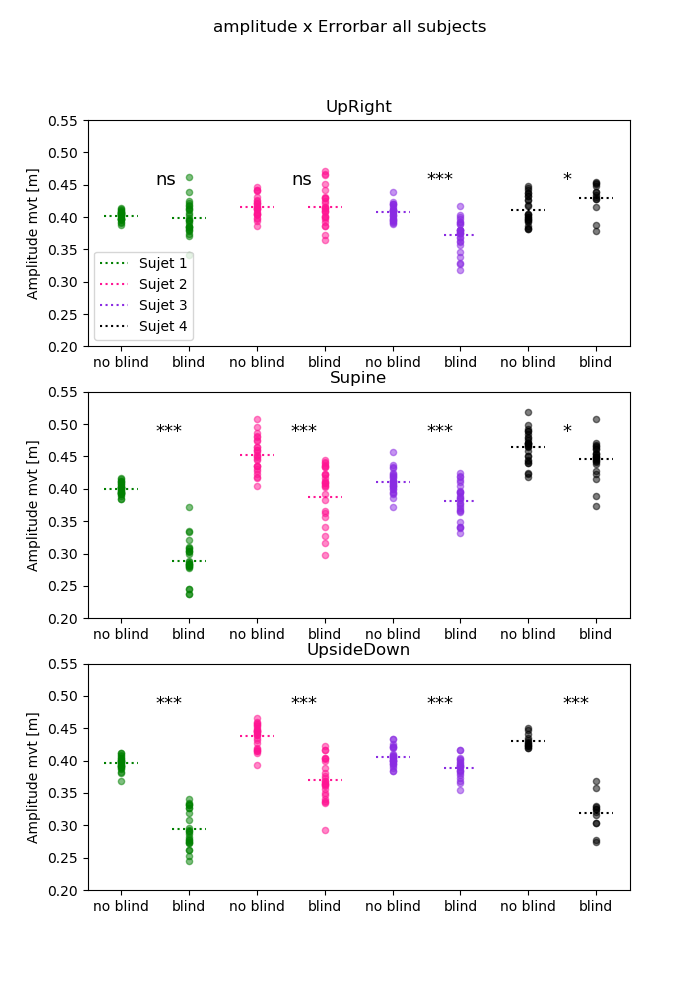
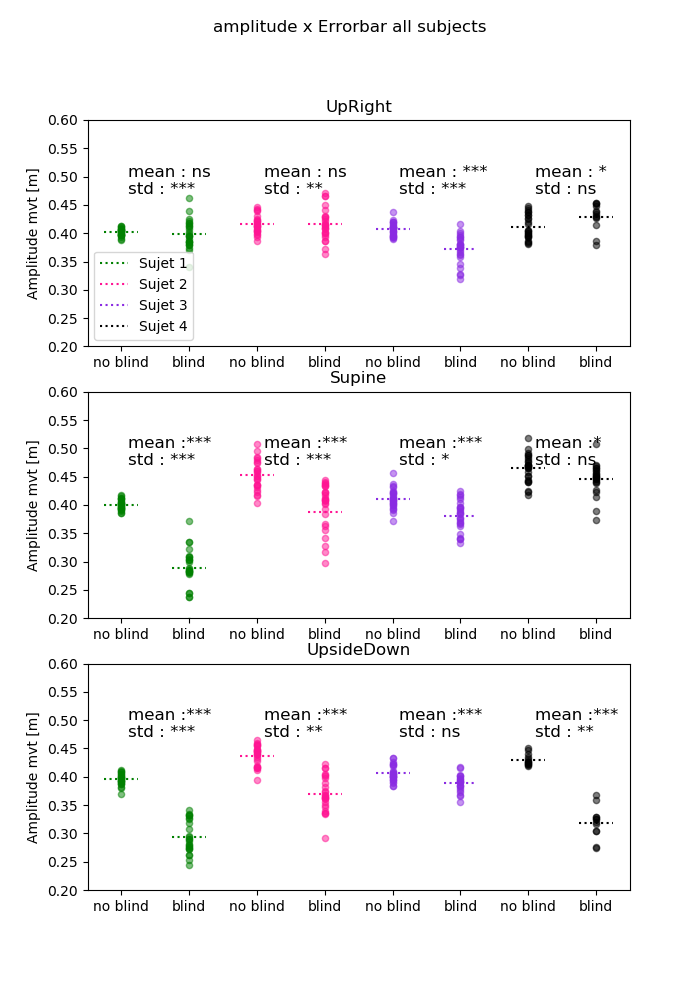
update code

diff --git a/codepython/GF/allsubjectsjustpvaluebindnobindposition.py b/codepython/GF/allsubjectsjustpvaluebindnobindposition.py
@@ -33,6 +33,11 @@ sujetcolor = {
     "GD": "green",
     "LH": "blueviolet"
 }
+positioncolor={
+"UR": "deeppink",
+    "SP": "black",
+    "UD": "green"
+}
 sujetmarker = {
     "GD": "d",
     "MH": "o",
@@ -44,6 +49,11 @@ indexsubject = {
     "MH": [7, 8],
     "LH": [5, 6],
     "PDs": [3, 4]
+}
+indexposition={
+    'UD':[5, 6],
+    'UR':[1,2],
+    'SP':[3,4]
 }
 
 
@@ -66,13 +76,12 @@ GF = glm_df.loc[:, 'GF'].to_numpy()
 meanlucile = np.nanmean(GF[baseline])
 ##
 
-fig, (ax1, ax2, ax3) = plt.subplots(nrows=3, ncols=1, figsize=(7, 10))
-tup = (ax1, ax2, ax3)
-for p, ax in zip(positions, tup):
+
+for p in positions:
     a = -3
+    openarray1 = []
+    openarray2 = []
     for name in names:
-        openarray1 = []
-        openarray2 = []
         a += 1
         for n in ntrials:
             glm_path = "../../data/%s_%s_00%d.glm" % (name, p, n)
@@ -151,42 +160,32 @@ for p, ax in zip(positions, tup):
                 if n == 5 or n == 4:
                     openarray2.append(np.nanmax(GF[id]))
 
-        X1 = sm2.DescrStatsW(openarray1)
-        X2 = sm2.DescrStatsW(openarray2)
-        Ttest = sm2.CompareMeans(X1, X2)
-        t2, p2 = sc.ttest_ind(openarray1, openarray2)
-        Txbis, pvalbis = sc.bartlett(openarray1, openarray2)
-        box = [np.nanmean(openarray1), np.nanmean(openarray2)]
-        box1 = [np.nanstd(openarray1), np.nanstd(openarray2)]
-        index = indexsubject[name]
-        indexgraph1 = np.linspace(index[0] - 0.25, index[0] + 0.25, 50)
-        plotarray1 = np.zeros(50) + box[0]
-        indexgraph2 = np.linspace(index[1] - 0.25, index[1] + 0.25, 50)
-        plotarray2 = np.zeros(50) + box[1]
-        indexscatter1 = np.zeros(len(openarray1)) + index[0]
-        indexscatter2 = np.zeros(len(openarray2)) + index[1]
-        if ax == ax3:
-            ax.plot(indexgraph1, plotarray1, linestyle='dotted', color=sujetcolor[name],
-                    label=sujet[name])
-            ax.scatter(indexscatter1, openarray1, color=sujetcolor[name], alpha=0.5, s=20)
-            ax.plot(indexgraph2, plotarray2, linestyle='dotted', color=sujetcolor[name])
-            ax.scatter(indexscatter2, openarray2, color=sujetcolor[name], alpha=0.5, s=20)
-            ax.text(index[0] + 0.5, 19, '%s' % transformpvalue(p2), fontsize=13)
-        else:
-            ax.plot(indexgraph1, plotarray1, linestyle='dotted', color=sujetcolor[name])
-            ax.scatter(indexscatter1, openarray1, color=sujetcolor[name], alpha=0.5, s=20)
-            ax.plot(indexgraph2, plotarray2, linestyle='dotted', color=sujetcolor[name])
-            ax.scatter(indexscatter2, openarray2, color=sujetcolor[name], alpha=0.5, s=20)
-            ax.text(index[0] + 0.5, 19, '%s' % transformpvalue(p2), fontsize=13)
-    ax.set_ylim(3.0, 22)
-    ax.set_xlim(0.85, 2.15)
-    ax.set_xticks([1, 2, 3, 4, 5, 6, 7, 8])
-    ax.set_xlim(0.5, 8.5)
-    ax.set_xticklabels(["1er bloc", '2em bloc', "1er bloc", '2em bloc', "1er bloc", '2em bloc', "1er bloc", '2em bloc'])
-    ax.set_title("%s" % positionsdico[p])
-    ax.set_ylabel("GF[N]")
-    if p == 'UD':
-        ax.legend(loc="lower right")
+    X1 = sm2.DescrStatsW(openarray1)
+    X2 = sm2.DescrStatsW(openarray2)
+    Ttest = sm2.CompareMeans(X1, X2)
+    t2, p2 = sc.ttest_ind(openarray1, openarray2)
+    Txbis, pvalbis = sc.bartlett(openarray1, openarray2)
+    box = [np.nanmean(openarray1), np.nanmean(openarray2)]
+    box1 = [np.nanstd(openarray1), np.nanstd(openarray2)]
+    index = indexposition[p]
+    indexgraph1 = np.linspace(index[0] - 0.25, index[0] + 0.25, 50)
+    plotarray1 = np.zeros(50) + box[0]
+    indexgraph2 = np.linspace(index[1] - 0.25, index[1] + 0.25, 50)
+    plotarray2 = np.zeros(50) + box[1]
+    indexscatter1 = np.zeros(len(openarray1)) + index[0]
+    indexscatter2 = np.zeros(len(openarray2)) + index[1]
+
+    plt.plot(indexgraph1, plotarray1, linestyle='dotted', color=positioncolor[p],label=positionsdico[p])
+    plt.scatter(indexscatter1, openarray1, color=positioncolor[p], alpha=0.5, s=20)
+    plt.plot(indexgraph2, plotarray2, linestyle='dotted', color=positioncolor[p])
+    plt.scatter(indexscatter2, openarray2, color=positioncolor[p], alpha=0.5, s=20)
+    plt.text(index[0] + 0.5, 19, '%s' % transformpvalue(p2), fontsize=13)
+    plt.ylim(3.0, 22)
+    plt.xlim(0.85, 2.15)
+    plt.xticks([1, 2, 3, 4, 5, 6],["no blind", 'blind',"no blind", 'blind',"no blind", 'blind'])
+    plt.xlim(0.5, 7.0)
+    plt.ylabel("GF[N]")
+    plt.legend(loc="lower right")
         # ax.set_xlabel('blocs(#)')
-fig.suptitle("Comparaison De la moyenne de la GF max en condition yeux ouvert")
-plt.savefig("errorbar_en_GF_for_allpvalue.png")
+plt.title("Comparaison De la moyenne de la GF max entre chaque position et les deux conditions")
+plt.savefig("errorbar_en_GF_for_allposstion.png")

diff --git a/codepython/Amplitude en X/allsubjectsjustpvalue.py b/codepython/Amplitude en X/allsubjectsjustpvalue.py
@@ -112,14 +112,16 @@ for p, ax in zip(positions, tup):
             ax.scatter(indexscatter1, openarray, color=sujetcolor[name], alpha=0.5,s=20)
             ax.plot(indexgraph2, plotarray2, linestyle='dotted', color=sujetcolor[name])
             ax.scatter(indexscatter2, closearray, color=sujetcolor[name], alpha=0.5,s=20)
-            ax.text(index[0] + 0.5, 0.45, '%s' % transformpvalue(p2), fontsize=13)
+            ax.text(index[0] + 0.1, 0.50, 'mean : %s' % transformpvalue(p2), fontsize=12)
+            ax.text(index[0] + 0.1, 0.47, 'std : %s' % transformpvalue(pvalbis), fontsize=12)
         else:
             ax.plot(indexgraph1, plotarray1, linestyle='dotted', color=sujetcolor[name])
             ax.scatter(indexscatter1, openarray, color=sujetcolor[name], alpha=0.5,s=20)
             ax.plot(indexgraph2, plotarray2, linestyle='dotted', color=sujetcolor[name])
             ax.scatter(indexscatter2, closearray, color=sujetcolor[name], alpha=0.5,s=20)
-            ax.text(index[0] + 0.5, 0.48, '%s' % transformpvalue(p2), fontsize=13)
-    ax.set_ylim(0.20, 0.55)
+            ax.text(index[0] + 0.1, 0.50, 'mean :%s' % transformpvalue(p2), fontsize=12)
+            ax.text(index[0] + 0.1, 0.47, 'std : %s' % transformpvalue(pvalbis), fontsize=12)
+    ax.set_ylim(0.20, 0.60)
     ax.set_xlim(0.85, 2.15)
     ax.set_xticks([1, 2, 3, 4, 5, 6, 7, 8])
     ax.set_xlim(0.5, 8.5)

diff --git a/codepython/GF/allsubjectsjustpvaluebindnobind.py b/codepython/GF/allsubjectsjustpvaluebindnobind.py
@@ -70,9 +70,9 @@ fig, (ax1, ax2, ax3) = plt.subplots(nrows=3, ncols=1, figsize=(7, 10))
 tup = (ax1, ax2, ax3)
 for p, ax in zip(positions, tup):
     a = -3
+    openarray1 = []
+    openarray2 = []
     for name in names:
-        openarray1 = []
-        openarray2 = []
         a += 1
         for n in ntrials:
             glm_path = "../../data/%s_%s_00%d.glm" % (name, p, n)
@@ -182,11 +182,11 @@ for p, ax in zip(positions, tup):
     ax.set_xlim(0.85, 2.15)
     ax.set_xticks([1, 2, 3, 4, 5, 6, 7, 8])
     ax.set_xlim(0.5, 8.5)
-    ax.set_xticklabels(["1er bloc", '2em bloc', "1er bloc", '2em bloc', "1er bloc", '2em bloc', "1er bloc", '2em bloc'])
+    ax.set_xticklabels(["no blind", 'blind',"no blind", 'blind',"no blind", 'blind',"no blind",'blind'])
     ax.set_title("%s" % positionsdico[p])
     ax.set_ylabel("GF[N]")
     if p == 'UD':
         ax.legend(loc="lower right")
         # ax.set_xlabel('blocs(#)')
-fig.suptitle("Comparaison De la moyenne de la GF max en condition yeux ouvert")
-plt.savefig("errorbar_en_GF_for_allpvalue.png")
+fig.suptitle("Comparaison De la moyenne de la GF max entre les deux conditions")
+plt.savefig("errorbar_en_GF_for_allpvaluebindnobind.png")
